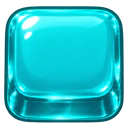
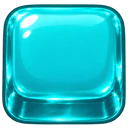
fix: halve transparent gutters around preview tiles [skip ci]

diff --git a/assets-src/tile-study/README.md b/assets-src/tile-study/README.md
@@ -2,7 +2,7 @@
 
 Three separate original RGBA atlases generated with built-in image_gen: glossy plastic, enamel and translucent caramel. No competitor extraction. Each master: 3 columns × 2 rows, yellow/red/green/turquoise/blue/purple. Keep pristine masters here. Prompt set in prompts.json.
 
-`node scripts/build-tile-study.mjs` uses vendored mini-games-kit helpers (5450f9db344aacb5acdc103b4199fd8aeb11b10d). Cuts equal atlas cells, preserves alpha, normalizes each to128×128 with4px transparent padding, encodes WebP q90, validates format/alpha/padding. Keeps tiny canonical gutters rather than physical trimming: 4px would save little, identical DOM/Phaser pivots remain direct. Per-theme six-texture budgets: plastic24,136bytes; enamel27,856bytes; caramel36,068bytes. Decoded proxy393,216bytes per active style; originals are not runtime assets.
+`node scripts/build-tile-study.mjs` uses vendored mini-games-kit helpers (5450f9db344aacb5acdc103b4199fd8aeb11b10d). Cuts equal atlas cells, preserves alpha, normalizes each to128×128 with2px transparent padding, encodes WebP q90, validates format/alpha/padding. Keeps tiny canonical gutters rather than physical trimming: 2px would save little, identical DOM/Phaser pivots remain direct. Per-theme six-texture budgets: plastic24,256bytes; enamel28,696bytes; caramel37,884bytes. Decoded proxy393,216bytes per active style; originals are not runtime assets.
 
 DEV-only URLs: `/?tileStudy=plastic`, `/?tileStudy=enamel`, `/?tileStudy=caramel`. No query = original0.21. Same color assets used in board, tray and dragged figure. Scene preloads only six selected textures, image pool is bounded256. Tiles have their own layer below hints/clear overlays and VFX. Preview board has shallow frame and rounded inset cells. No rule, save, score or audio changes.
 

diff --git a/docs/qa/TILE_MATERIAL_STUDY_2026-10-30.md b/docs/qa/TILE_MATERIAL_STUDY_2026-10-30.md
@@ -13,3 +13,5 @@
 Проверено: build, 86 unit и 6 браузерных тестов VFX/preflight; все3материала и baseline принимают реальную постановку, pageerror нет;390×844/DPR2 и320×568/DPR2. Alpha/отступы/WebP проверяются пайплайном. Цветопередача/FPS реального Android не проверены. Параметр tileStudy доступен только в DEV, в release он отключён; отдельные study-ассеты пока находятся вpublic этой экспериментальной ветки и должны быть сокращены до выбранного набора перед выпуском.
 
 Ранее реализованные дополнительные фаски тем не накладываются поверх новых текстур в этом прототипе. Эволюцию материала по серии нужно согласовать с выбранной основой перед выпуском. Промпты, мастера и бюджет находятся вassets-src/tile-study.
+
+Уточнение после просмотра владельцем: прозрачный padding 4→2 px. Шаг ячейки и hit boxes прежние, общие текстуры уплотняют все способы отображения. Повторены build, alpha/padding/budget validation и четыре реальные постановки на двух размерах экрана без pageerror. Набор 18 WebP теперь 90 836 байт. Сравнение: tile-study/tighter-gaps.png. Физическое устройство не проверено.

diff --git a/docs/ROADMAP.md b/docs/ROADMAP.md
@@ -205,3 +205,5 @@ Gate: нет потери принятого хода, неверного кон
 - [x] Подключены в DEV-просмотр к реальному полю, лотку и переносимой фигуре; неглубокая рамка и приглушённые ячейки.
 - [x] Сравнение одной позиции на390×844/DPR2, компактный320×568; четыре реальные постановки и отсутствие pageerror. Production build/86 unit прошли.
 - [ ] Выбор базового материала, доводка материалов серии, интеграционная регрессия и следующий APK. Текущий выданный APK остаётся0.21.
+
+- [x] По замечанию владельца уменьшены прозрачные отступы фишек 4→2 px на 128 px текстуре во всех трёх материалах: плотнее поле, лоток и перенос. Build, alpha/budget validation и 4 реальные постановки в браузере прошли; 390×844 и 320×568. [До/после](qa/tile-study/tighter-gaps.png). APK не пересобирался.
